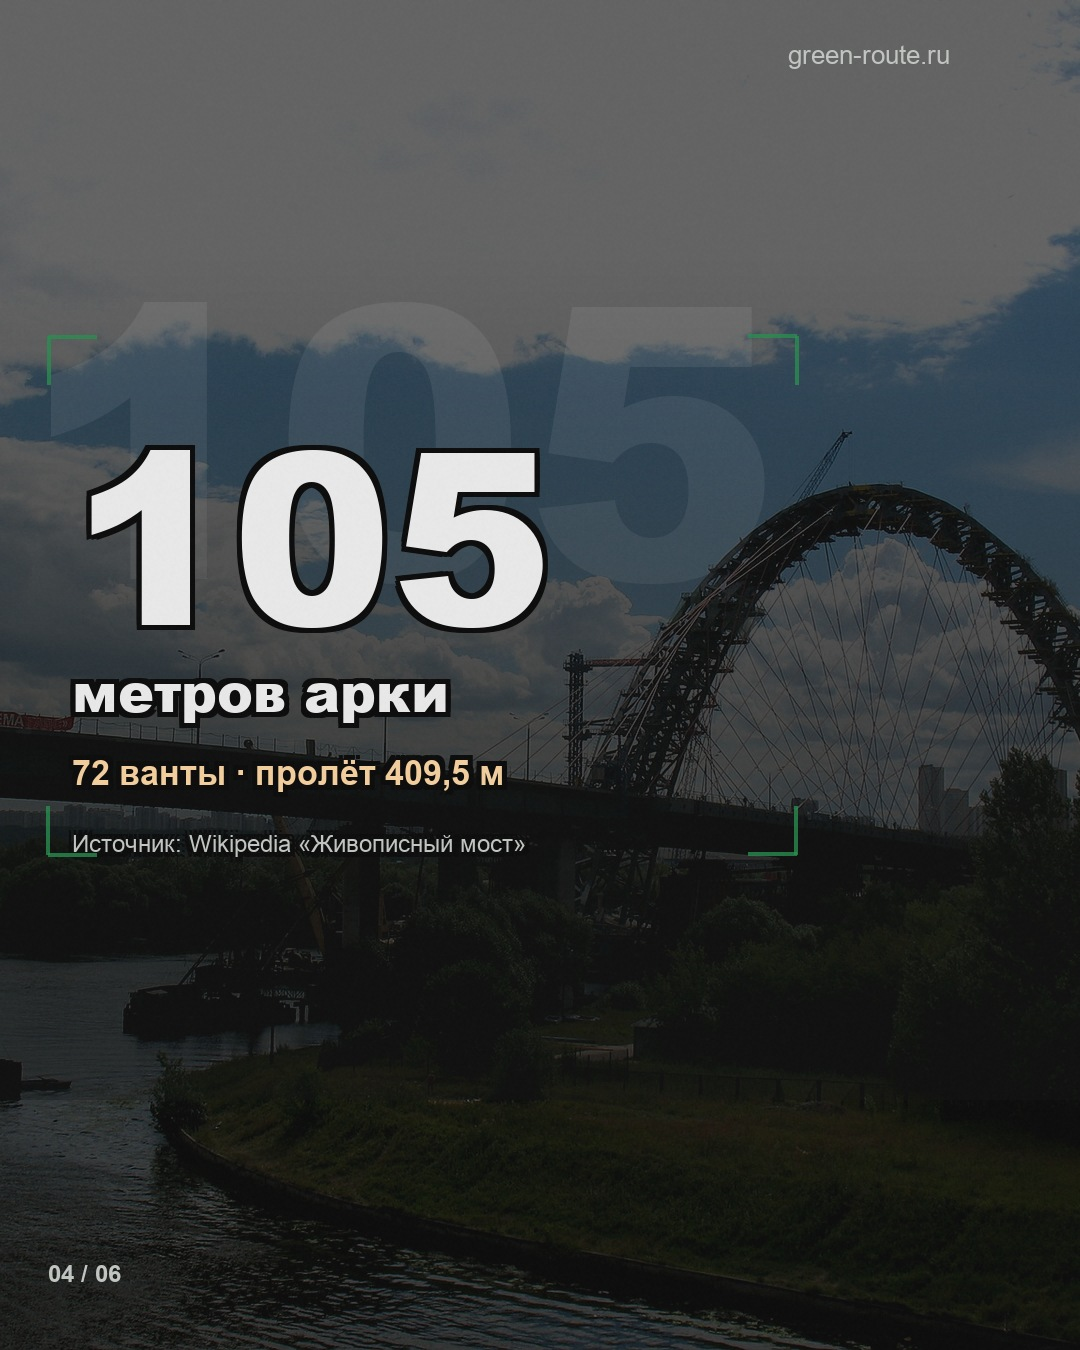
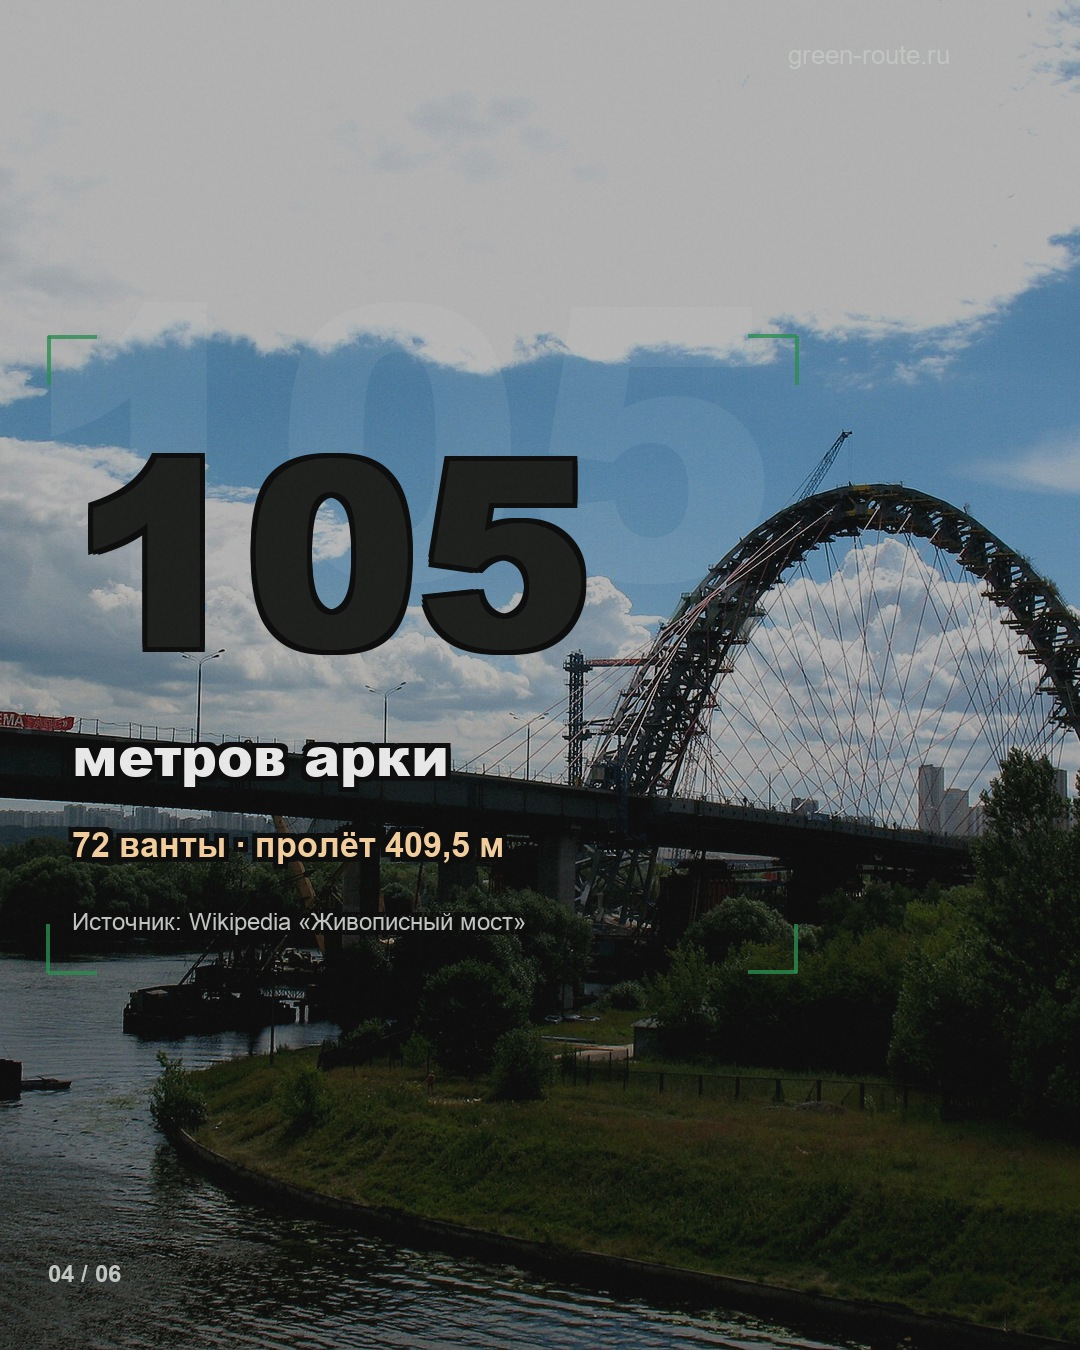
fix(instagram): bigger fact gaps, brighter photo, drop pycache

diff --git a/_previews/instagram-carousel/render_story_variants.py b/_previews/instagram-carousel/render_story_variants.py
@@ -479,14 +479,13 @@ def render_variant(v: Variant, strip: Image.Image, detail: Image.Image) -> dict:
 
     # --- 4 scale (NO wow label, huge number, spaced) ---
     audit = []
-    base = ImageEnhance.Brightness(grade(cover_crop(detail, W, H, (0.55, 0.4)))).enhance(0.38)
+    # Keep photo readable — no heavy whole-frame dunk; stroke carries contrast
+    base = ImageEnhance.Brightness(grade(cover_crop(detail, W, H, (0.55, 0.4)))).enhance(0.72)
     s = base.convert("RGBA")
-    # faint watermark number
     big = Image.new("RGBA", (W, H), (0, 0, 0, 0))
     bd = ImageDraw.Draw(big)
-    bd.text((20, 160), "105", font=font(FONT_BLACK, 380), fill=(255, 255, 255, 22))
+    bd.text((20, 160), "105", font=font(FONT_BLACK, 380), fill=(255, 255, 255, 18))
     s = Image.alpha_composite(s, big)
-    s = soft_zone(s, 250, 1100, 90)
     d = ImageDraw.Draw(s, "RGBA")
     if v.corners != "off":
         frame_corners(d)
@@ -496,67 +495,82 @@ def render_variant(v: Variant, strip: Image.Image, detail: Image.Image) -> dict:
     slot = v.slots[4]
     c4 = COPY[4]
 
+    # Fixed vertical advances — glyph metrics alone leave "105" visually crushed into unit
+    GAP_NUM_UNIT = 96
+    GAP_UNIT_STATS = 56
+    GAP_STATS_SRC = 48
+
     if v.giant_center_fact:
-        fnum = font(FONT_BLACK, 280)
+        fnum = font(FONT_BLACK, 300)
         probe = ImageDraw.Draw(s_rgb)
         nw = int(probe.textlength(c4["number"], font=fnum))
         nx = (W - nw) // 2
-        s_rgb, y = draw_safe(
-            s_rgb, c4["number"], (nx, 300), fnum, CREAM, nw + 20,
+        num_y = 260
+        s_rgb, _ = draw_safe(
+            s_rgb, c4["number"], (nx, num_y), fnum, CREAM, nw + 20,
             label="number", audit=audit, line_gap=1.0,
         )
-        s_rgb, y = draw_safe(
-            s_rgb, c4["unit"], (64, y + 48), font(FONT_BLACK, 56), CREAM, W - 128,
+        y = num_y + 300 + GAP_NUM_UNIT
+        s_rgb, _ = draw_safe(
+            s_rgb, c4["unit"], (64, y), font(FONT_BLACK, 56), CREAM, W - 128,
             label="unit", audit=audit,
         )
-        s_rgb, y = draw_safe(
-            s_rgb, c4["stats"], (64, y + 44), font(FONT_BOLD, 34), GOLD, W - 128,
+        y = y + 56 + GAP_UNIT_STATS
+        s_rgb, _ = draw_safe(
+            s_rgb, c4["stats"], (64, y), font(FONT_BOLD, 34), GOLD, W - 128,
             label="stats", audit=audit,
         )
+        y = y + 34 + GAP_STATS_SRC
         s_rgb, _ = draw_safe(
-            s_rgb, c4["source"], (64, y + 40), font(FONT_REG, 24), MUTED, W - 128,
+            s_rgb, c4["source"], (64, y), font(FONT_REG, 24), MUTED, W - 128,
             label="source", audit=audit,
         )
     elif v.split_fact:
-        s_rgb, y = draw_safe(
-            s_rgb, c4["number"], (36, 260), font(FONT_BLACK, 260), CREAM, 720,
+        num_y = 240
+        s_rgb, _ = draw_safe(
+            s_rgb, c4["number"], (36, num_y), font(FONT_BLACK, 260), CREAM, 720,
             label="number", audit=audit, line_gap=1.0,
         )
-        s_rgb, y = draw_safe(
-            s_rgb, c4["unit"], (48, y + 48), font(FONT_BLACK, 52), CREAM, 700,
+        y = num_y + 260 + GAP_NUM_UNIT
+        s_rgb, _ = draw_safe(
+            s_rgb, c4["unit"], (48, y), font(FONT_BLACK, 52), CREAM, 700,
             label="unit", audit=audit,
         )
         s_rgb, y = draw_safe(
-            s_rgb, c4["stats"], (48, 980), font(FONT_BOLD, 32), GOLD, W - 96,
+            s_rgb, c4["stats"], (48, 1000), font(FONT_BOLD, 32), GOLD, W - 96,
             label="stats", audit=audit, align="right",
         )
         s_rgb, _ = draw_safe(
-            s_rgb, c4["source"], (48, y + 36), font(FONT_REG, 24), MUTED, W - 96,
+            s_rgb, c4["source"], (48, y + GAP_STATS_SRC), font(FONT_REG, 24), MUTED, W - 96,
             label="source", audit=audit, align="right",
         )
         ImageDraw.Draw(s_rgb, "RGBA").rectangle((48, 280, 58, 560), fill=WARM)
     else:
-        num_size = 240
-        s_rgb, y = draw_safe(
-            s_rgb, c4["number"], (slot.x, slot.y), font(FONT_BLACK, num_size), CREAM, slot.max_w,
+        num_size = 260
+        num_y = slot.y
+        s_rgb, _ = draw_safe(
+            s_rgb, c4["number"], (slot.x, num_y), font(FONT_BLACK, num_size), CREAM, slot.max_w,
             label="number", audit=audit, line_gap=1.0, align=slot.align,
         )
-        s_rgb, y = draw_safe(
-            s_rgb, c4["unit"], (slot.x, y + 52), font(FONT_BLACK, 54), CREAM, slot.max_w,
+        y = num_y + num_size + GAP_NUM_UNIT
+        s_rgb, _ = draw_safe(
+            s_rgb, c4["unit"], (slot.x, y), font(FONT_BLACK, 54), CREAM, slot.max_w,
             label="unit", audit=audit, align=slot.align,
         )
-        s_rgb, y = draw_safe(
-            s_rgb, c4["stats"], (slot.x, y + 44), font(FONT_BOLD, 34), GOLD, slot.max_w,
+        y = y + 54 + GAP_UNIT_STATS
+        s_rgb, _ = draw_safe(
+            s_rgb, c4["stats"], (slot.x, y), font(FONT_BOLD, 34), GOLD, slot.max_w,
             label="stats", audit=audit, align=slot.align,
         )
+        y = y + 34 + GAP_STATS_SRC
         s_rgb, _ = draw_safe(
-            s_rgb, c4["source"], (slot.x, y + 40), font(FONT_REG, 24), MUTED, slot.max_w,
+            s_rgb, c4["source"], (slot.x, y), font(FONT_REG, 24), MUTED, slot.max_w,
             label="source", audit=audit, align=slot.align,
         )
         if v.frame_text:
-            text_frame(ImageDraw.Draw(s_rgb, "RGBA"), (slot.x, slot.y, slot.x + 700, y + 40))
+            text_frame(ImageDraw.Draw(s_rgb, "RGBA"), (slot.x, num_y, slot.x + 700, y + 40))
         if v.accent_bar:
-            ImageDraw.Draw(s_rgb, "RGBA").rectangle((48, slot.y + 20, 58, slot.y + 320), fill=WARM)
+            ImageDraw.Draw(s_rgb, "RGBA").rectangle((48, num_y + 20, 58, num_y + 360), fill=WARM)
 
     d = ImageDraw.Draw(s_rgb, "RGBA")
     progress(d, 4)
